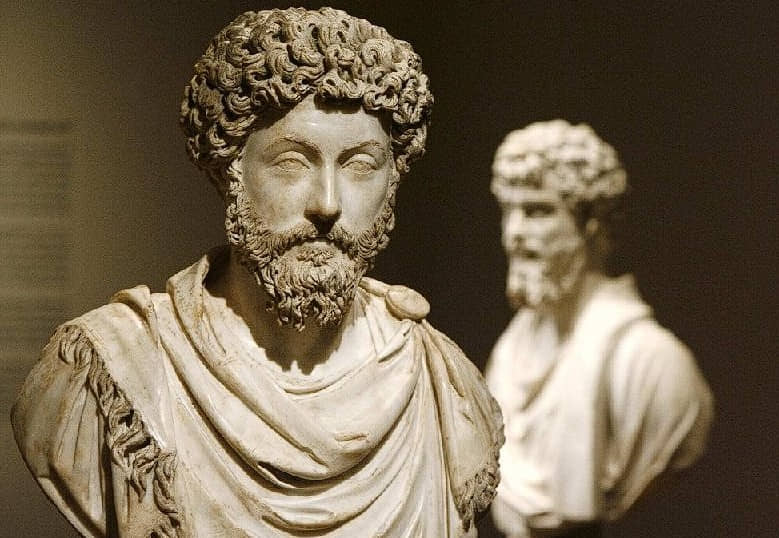
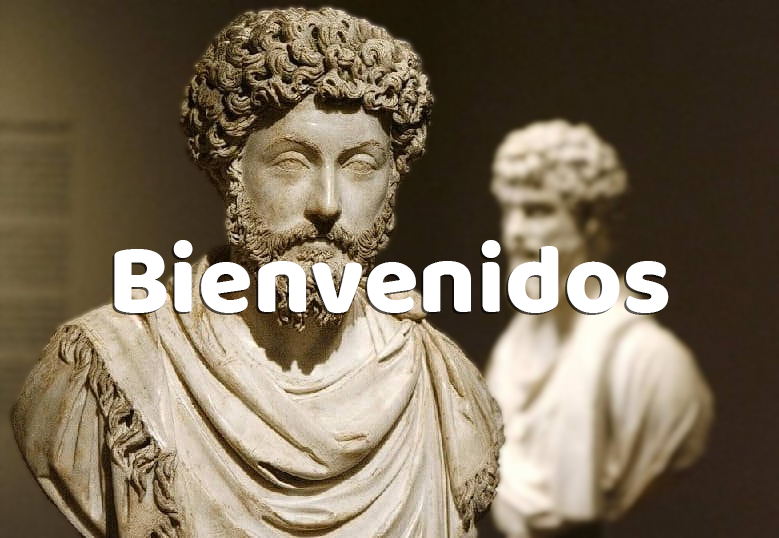
segundodia

Changed region(s): [[0.1232, 0.4461, 0.8626, 0.5948], [0.4929, 0.0595, 0.5237, 0.0892], [0.4621, 0.0297, 0.4929, 0.0595]]

diff --git a/src/app/components/index/index.component.css b/src/app/components/index/index.component.css
@@ -1,50 +1,66 @@
 .menu-img{
+    height: 47px;
     border-radius: 50%;
-    border: solid;
     background-color: #D9D9D9;
+    margin-left:5px ;
+    box-shadow: 0px 4px 4px rgba(0, 0, 0, 0.25), 0px 4px 4px rgba(0, 0, 0, 0.25);
 }
 .nav-principal{
     background-color: #D9D9D9;
-
+    border: 2px black;
+    box-shadow: 0px 4px 4px rgba(0, 0, 0, 0.25), 0px 4px 4px rgba(0, 0, 0, 0.25);
 }
 .user-img{
-    height: 50px;
+    height: 47px;
+    width: 47px;
     position: absolute;
-     left: 85%;
-     top: 5px;
-     margin-left: 1px;
+     top: 7px;
+     margin-left: 6px;
      border-radius: 50%;
-     width: 60px;
+    object-fit: cover!important;
+    box-shadow: 0px 4px 4px rgba(0, 0, 0, 0.25), 0px 4px 4px rgba(0, 0, 0, 0.25);
+   left: 85%;
 
     }
 .bienvenido{
     position: absolute;
-    left: 25%;
+    left: 122px;
     top: 17%;
-    color: white;
-    font: baloo;
+    color:#D9D9D9;
+    font-family: 'Lobster', cursive;
     font-size: 40px;
+    text-shadow: 1px 1px 2px black ;
 }
 .inicio-img{
     height: 250px;
     width: 550px;
+    object-fit: cover;
+    filter: grayscale(17%);
+    box-shadow: 0px 4px 4px rgba(0, 0, 0, 0.25), 0px 4px 4px rgba(0, 0, 0, 0.25);
 }
 .Contenedor-secundario{
-    width: 390px;
-    height: 578px;
+    margin: 0px;
+    width: 100%;
+    height: 170px;
     display: flex;
+    
+background: linear-gradient(180deg, rgba(89, 81, 81, 0.176) 0%, rgba(93, 84, 84, 0.132) 52.08%, rgba(255, 255, 255, 0) 100%);
+mix-blend-mode: multiply;
 }.contenedor-notificaciones{
-    display: flex ;
+    display: block ;
     height: 111px;
     width: 350px;
-    background-color: #D9D9D9;
-    margin: 27px !important;
-    box-shadow: 10px;
-    border-radius: 17px;
-    border: solid,3px;
+    background: #D9D9D9;
+    border-radius: 3px;
+    margin: auto;
+    margin-top: 25px;
+    margin-bottom: 20px;
+    box-shadow: 0px 4px 4px rgba(0, 0, 0, 0.25), 0px 4px 4px rgba(0, 0, 0, 0.25);
+    text-align: center;
 
 }
 .notificaciones-img{
+    margin-right: 10px;
     height: 35px;
     width: 35px;
     margin-left: 10px;
@@ -52,11 +68,56 @@
     border-radius: 50px;
 }
 .titulo-notificaciones{
-    font-size: 15px;
+    font-size: 20px;
     margin-top: 10px ;
     margin-right:100px ;
+    font-weight: bolder;
+    text-shadow: 9px 9px 9px white;
 }
 .texto-notificaciones{
-    align-self: center;
-    justify-self: center;
+    margin: 17px;
+    font: Arya;
+    font-weight: bold;
+    border: auto;
+
+}
+.contenedor-nose{
+    display: flex;
+
+}
+.font-bold{
+    font-size: 14px;
+    position: absolute;
+    right: 60px;
+    top: 19px ;
+font-weight: bolder;}
+.img-calendario{
+    margin-right: 10px;
+    height: 35px;
+    width: 35px;
+    margin-left: 10px;
+    margin-top: 10px;
+    border-radius: 55px;
+}
+.contenedor-terciario{
+   width: 350px;
+   height: 320px;
+   display: flex;
+   flex-direction: column;
+   margin: auto;
+   margin-top: 0px;
+   background-color: #D9D9D9;;
+box-shadow: 0px 4px 4px rgba(0, 0, 0, 0.25), 0px 4px 4px rgba(0, 0, 0, 0.25);
+}
+.text-calendario{
+    font-size: 20px;
+    margin-top: 10px ;
+    font-weight: bolder;;
+ }
+.img-calendario2{
+    height: 260px;
+    width: 260px;
+    margin: auto;
+    border-radius: 20px;
+
 }

diff --git a/src/app/components/index/index.component.html b/src/app/components/index/index.component.html
@@ -1,27 +1,31 @@
 <div>
     <nav class="nav-principal" style="height: 60px; display: flex;">
         <button>
-            <img src="./../../../assets/img/menu.png" style="height: 50px;" class="menu-img">
-            <p style="position: absolute; left: 65%;top: 15px;" class="font-bold">FRANCISCO</p>
+            <img src="./../../../assets/img/menu.png"   class="menu-img">
+            <p  class="font-bold">FRANCISCO</p>
             <img src="./../../../assets/img/user.png" class="user-img" > 
         </button>
     </nav>
     <div>
       <img src="./../../../assets/img/Estoicismo.jpg" class="inicio-img">
-      <p class="bienvenido">bienvenidx</p>
+  
       <div>
         <div class="Contenedor-secundario">
-          <div class="contenedor-notificaciones"> 
-          <img src="./../../../assets/img/notificaciones.jpg" class="notificaciones-img">
-           <h1 class="titulo-notificaciones">notificaiones</h1> 
-           <p class="texto-notificaciones"> no tienes notificaciones, debes socialivilizar mas</p>
+          <div class="contenedor-notificaciones"> <div class="contenedor-nose"> 
+            <img src="./../../../assets/img/notificaciones.jpg" class="notificaciones-img">
+           <h1 class="titulo-notificaciones">Notificaciones</h1> 
+          </div>
+           <p class="texto-notificaciones"> no tienes notificaciones, debes socialivilizar más</p>
           </div>
         </div>
-        <div>
-            <img src="./../../../assets/img/calendario.png">
-            <p>calendario de mesas</p>
-            <img>
+        <div class="contenedor-terciario">
+            <div style="display: flex;">
+              <img class="img-calendario"src="./../../../assets/img/calendario.png">
+            <p class="text-calendario">calendario de mesas</p>
+            </div>
+            <img class="img-calendario2"src="./../../../assets/img/calendario2.png">
         </div>
+       
       </div>  
     </div>
 </div>

diff --git a/src/app/components/login/login.component.css b/src/app/components/login/login.component.css
@@ -2,17 +2,19 @@
   display: block;
   height: 200vw;
   width: 100vw;
-  background-color: rgb(160, 155, 139);
+  background: #ffff;
   margin-top: 0%;
+ 
 }
 .image{
   position: relative;
   box-shadow: 50px, black;
   border-radius: 50%;
   top: 80px;
-  left: 110px;
+  left: 132px;
   height: 150px;
   width: 150px;
+  box-shadow: 0px 4px 4px rgba(0, 0, 0, 0.25), 0px 4px 4px rgba(0, 0, 0, 0.25);
 
 }
 .ingresar{
@@ -23,15 +25,34 @@
   text-align: center;
   width: 200px;
   height: 50px;
+  border-radius: 20px;
+  margin: 50px;
 }
 .formulario{
   display:block;
   justify-content: center;
-  align-items: center;
-  height: 80vw;
-  width: 100vw;
+  height: 130vw;
+  width: 85vw;
   margin-top: 120px;
+text-align: center;
+background: #a1a1a1;
+border-radius: 20px;
+margin: auto;
+margin-top: 25px;
+border: 2px black;
+box-shadow: 0px 4px 4px rgba(0, 0, 0, 0.25), 0px 4px 4px rgba(0, 0, 0, 0.25);
 }
-.ingresar{
+.boton{
+  font-size: 20px;
+  background-color: #ffff;
+  padding: 10px 20px;
+  border-radius: 20px;
 
+}
+.email{
+
+  top: 70px;
+}
+.contenedor-image{
+  height: 130px;
 }

diff --git a/src/app/components/notfound/notfound.component.css b/src/app/components/notfound/notfound.component.css
@@ -1,0 +1,35 @@
+
+.boton{
+    position: relative;
+    background-color: #D9D9D9;
+    border: #000000 1px;
+    border-radius: 10px;
+    font-size: 24px;
+    font-weight: bold;
+    top: 200px;
+    box-shadow: 0px 4px 4px rgba(0, 0, 0, 0.966);
+    padding: 10px 20px;
+}
+  
+  .container {
+    display: block;
+    text-align: center;
+    margin-top: 20%;
+  }
+  
+  h1 {
+    font-size: 60px;
+    color: #000000;
+  }
+  
+  p {
+    font-size:30px;
+    color: #000000;
+  }
+  .boton:active{
+    box-shadow: 0px 4px 4px rgba(255, 252, 252, 0.25), 0px 4px 4px rgba(255, 255, 255, 0.25);
+  }
+.img{
+  position: relative;
+  top: 60px;
+}

diff --git a/src/app/components/login/login.component.html b/src/app/components/login/login.component.html
@@ -3,11 +3,11 @@
     <img class="image" src="./../../../assets/img/logo_nacio.jpg">
   </div>
     <form class="formulario">
-        <p>email</p>
+        <p class="email">email</p>
         <input type="email" class="ingresar">
-        <p>contraseña</p>
+        <p class="email">contraseña</p>
         <input type="password" class="ingresar">
-        <a class="ingresar" routerLink="/index">ingresar</a>
+       <button routerLink="/index" class="boton">ingresar</button>
 
     </form>
 </div>

diff --git a/src/index.html b/src/index.html
@@ -4,6 +4,10 @@
   <meta charset="utf-8">
   <title>Proyectopagina</title>
   <base href="/">
+  <link rel="preconnect" href="https://fonts.googleapis.com">
+<link rel="preconnect" href="https://fonts.gstatic.com" crossorigin>
+<link href="https://fonts.googleapis.com/css2?family=Lobster&display=swap" rel="stylesheet">
+
   <meta name="viewport" content="width=device-width, initial-scale=1">
   <link rel="icon" type="image/x-icon" href="favicon.ico">
 </head>

diff --git a/src/app/components/notfound/notfound.component.html b/src/app/components/notfound/notfound.component.html
@@ -1,1 +1,7 @@
-<p> NOT FOUND 404 </p>
+
+<div class="container">
+    <h1>Error 404</h1>
+    <p>Página no encontrada</p>
+    <img class="img" src="./../../../assets/img/eror-404.png">
+    <a routerLink="/home" class="boton">Volver al inicio</a>
+</div>
